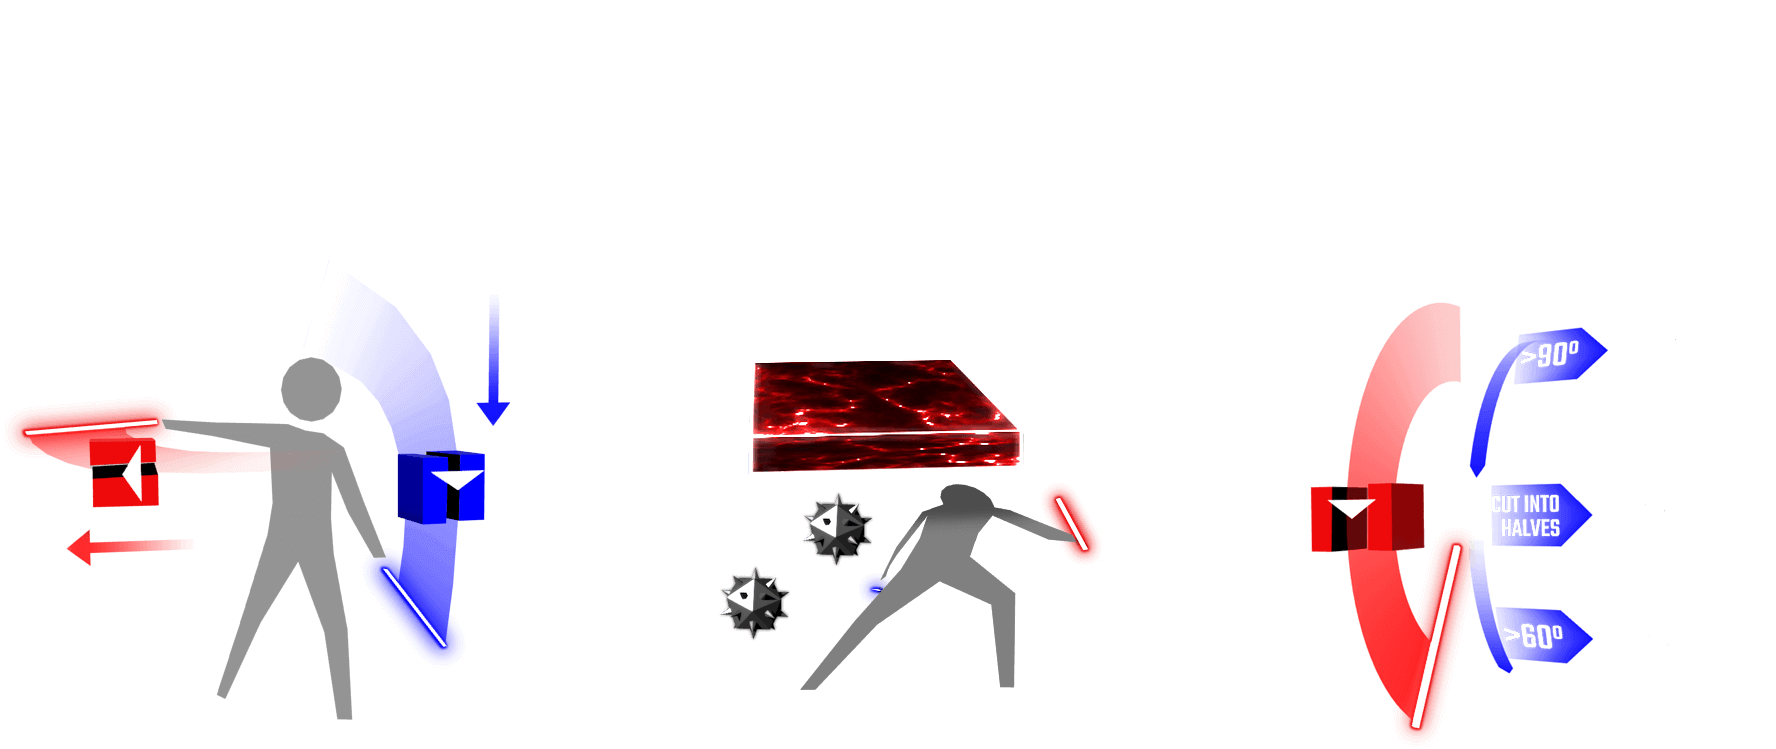
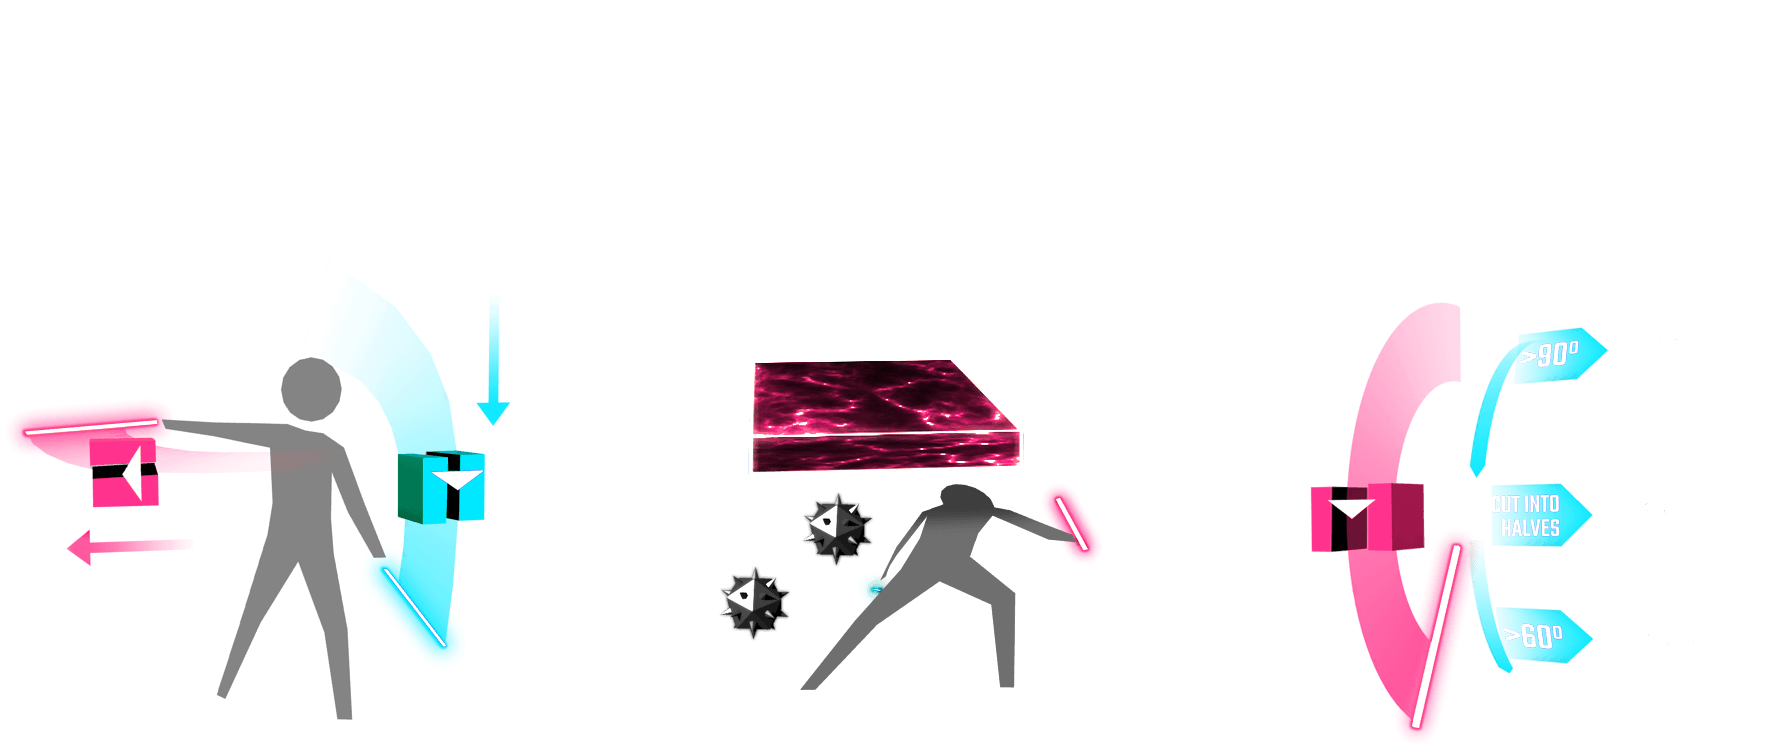
recoloring ui stuff

diff --git a/src/assets.html b/src/assets.html
@@ -76,7 +76,7 @@
 <img id="noiseTexture" src="assets/img/noise.png">
 <img id="sparkImg" src="assets/img/spark.png">
 <img id="spark2Img" src="assets/img/spark2.png">
-<img id="soundboxingImg" src="assets/img/soundboxing.png">
+<img id="soundboxingImg" src="assets/img/soundboxing.jpg">
 <img id="genresImg" src="assets/img/genres.png">
 <img id="tutorialImg" src="assets/img/tutorial.png">
 <img id="floorEnvImg" src="assets/img/floorenv.jpg">
@@ -181,6 +181,9 @@
   animation__skycoloroff="isRawProperty: true; property: systems.materials.stageNormal.uniforms.skyColor.value; type: color; to: {{ COLORS.SKY_OFF }}; dur: 500; easing: linear; startEvents: bgcoloroff"
   animation__skycolorblue="isRawProperty: true; property: systems.materials.stageNormal.uniforms.skyColor.value; type: color; to: {{ COLORS.SKY_BLUE }}; dur: 5; easing: linear; startEvents: bgcolorblue"
   animation__skycolorred="isRawProperty: true; property: systems.materials.stageNormal.uniforms.skyColor.value; type: color; to: {{ COLORS.SKY_RED }}; dur: 5; easing: linear; startEvents: bgcolorred"
+
+  animation__bgcolorgameover="isRawProperty: true; property: systems.materials.stageNormal.uniforms.backglowColor.value; type: color; to: {{ COLORS.BG_OFF }}; dur: 500; easing: linear; startEvents: bgcolorgameover"
+  animation__skycolorgameover="isRawProperty: true; property: systems.materials.stageNormal.uniforms.skyColor.value; type: color; to: {{ COLORS.SKY_BLUE }}; dur: 5; easing: linear; startEvents: bgcolorgameover"
   ></a-mixin>
 
 <a-mixin id="tunnelColorAnimation"

diff --git a/src/templates/gameMenu.html b/src/templates/gameMenu.html
@@ -13,8 +13,8 @@
 
 <!-- Titles. -->
 <a-entity id="inGameMenuTitles" position="0 1.7 -2.3">
-  <a-entity mixin="gameMenuButtonText" text="value: GAME OVER; color: #fff; width: 4" bind__visible="isGameOver"></a-entity>
-  <a-entity mixin="gameMenuButtonText" text="value: SONG CLEARED; color: #66d8fd; width: 4" bind__visible="isVictory" position="0 0.2 0"></a-entity>
+  <a-entity mixin="gameMenuButtonText" text="value: GAME OVER; color: {{ COLORS.UI_ACCENT2 }}; width: 4" bind__visible="isGameOver"></a-entity>
+  <a-entity mixin="gameMenuButtonText" text="value: SONG CLEARED; color: {{ COLORS.UI_ACCENT }}; width: 4" bind__visible="isVictory" position="0 0.2 0"></a-entity>
 </a-entity>
 
 <a-entity
@@ -67,9 +67,9 @@
 
     <a-entity id="gameMenuSongInfo">
       <a-entity class="gameMenuSongSubName" position="0 0.058 0"
-        mixin="font" text="wrapCount: 40; align: center; color: #FF185B" bind__text="value: menuSelectedChallenge.songSubName"></a-entity>
+        mixin="font" text="wrapCount: 40; align: center; color: {{ COLORS.UI_ACCENT }}" bind__text="value: menuSelectedChallenge.songSubName"></a-entity>
       <a-entity class="gameMenuSongName" position="0 -0.031 0"
-        mixin="font" text="align: center; color: #FF185B; wrapCount: 22; baseline: top; lineHeight: 36; width: 0.81"
+        mixin="font" text="align: center; color: {{ COLORS.UI_ACCENT }}; wrapCount: 22; baseline: top; lineHeight: 36; width: 0.81"
         bind__text="value: menuSelectedChallenge.songName"></a-entity>
     </a-entity>
   </a-entity>

diff --git a/src/components/gpu-preloader.js b/src/components/gpu-preloader.js
@@ -5,21 +5,35 @@ let i = 0;
  * three.js renderer by default will not upload textures from non-visible entities.
  */
 AFRAME.registerComponent('gpu-preloader', {
+  dependencies: ['materials'],
+
   play: function () {
     this.preloadMineEnvMaps();
 
     setTimeout(() => {
-      this.preloadBeamMap();
+      this.preloadAtlas();
+      this.preloadLogo();
+      //this.prelodBeamMap();
       this.preloadBeatEnvMap();
       this.preloadCutParticles();
       this.preloadKeyboard();
-      this.preloadMissMap();
+      //this.preloadMissMap();
       this.preloadPlayButton();
       this.preloadSearchPrevPage();
       //this.preloadWallMap();
-      this.preloadWrongMap();
+      //this.preloadWrongMap();
       this.preloadGenres();
     }, 1000);
+  },
+
+  preloadAtlas: function () {
+    const stage = document.querySelector('#stageObj');
+    this.preloadTexture(stage.getObject3D('mesh').children[0].material.uniforms.src.value);
+  },
+
+  preloadLogo: function () {
+    const logo = document.querySelector('#logoBody');
+    this.preloadTexture(logo.getObject3D('mesh').children[0].material.uniforms.src.value);
   },
 
   preloadBeamMap: function () {

diff --git a/src/templates/menu.html b/src/templates/menu.html
@@ -131,7 +131,8 @@
 
       <a-entity id="soundboxingLink"
         bind__visible="!menuSelectedChallenge.id && !isSearching && !genre"
-        position="0.95 -0.57 0.01">
+        position="0.9 -0.5 0.01">
+
         <a-entity id="soundboxingButton"
           link="href: https://webvr.soundboxing.co/; on: click"
           geometry="primitive:plane; width: 0.38; height: 0.19;"
@@ -146,7 +147,7 @@
             mixin="font"
             animation__show="property: components.text.material.uniforms.opacity.value; from: 0; to: 1; startEvents: show; dur: 100"
             animation__hide="property: components.text.material.uniforms.opacity.value; from: 1; to: 0; startEvents: hide; dur: 100"
-            text="value: If you liked Super Saber, you'll love Soundboxing! Play it now instantly.; opacity: 0; baseline: bottom; width: 0.7; wrapCount: 24; align: center"></a-entity>
+            text="value: If you liked Super Saber,\nyou'll love Soundboxing!\nPlay it now instantly.; letterSpacing: 2; opacity: 0; baseline: bottom; width: 0.7; wrapCount: 28; align: center; color:  #fa83d9;"></a-entity>
         </a-entity>
       </a-entity>
     </a-entity>

diff --git a/src/templates/stage.html b/src/templates/stage.html
@@ -72,7 +72,7 @@
     position="0 -19 5"></a-entity>
 
   <a-entity
-    id="stageobj"
+    id="stageObj"
     mixin="gameoverAnimation"
     obj-model="obj: #stageNormalObj"
     materials="name: stageNormal"></a-entity>
@@ -114,7 +114,7 @@
 
   <a-entity id="logo" bind__visible="menuActive || isVictory" position="0 6 -7.5" rotation="90 0 0">
     <a-entity id="logoGodraysObj" obj-model="obj: #logoGodraysObj" materials="name: logoadditive"></a-entity>
-    <a-entity id="logoObj" obj-model="obj: #logoObj" materials="name: logo"></a-entity>
+    <a-entity id="logoBody" obj-model="obj: #logoObj" materials="name: logo"></a-entity>
     <a-entity id="logoFrontU" obj-model="obj: #logofrontUObj" materials="name: logo" logoflicker="delay: 1200" bind__logoflicker="active: menuActive || isVictory"></a-entity>
     <a-entity id="logoGlowObj" obj-model="obj: #logoGlowObj" materials="name: logoadditive"></a-entity>
   </a-entity>

diff --git a/src/templates/leaderboard.html b/src/templates/leaderboard.html
@@ -33,7 +33,7 @@
     mixin="font"
     bind__text="value: leaderboardNames"
     bind__visible="!leaderboardQualified && !leaderboardEmpty"
-    text="baseline: center; width: 1.2; anchor: left; color: #00acfc; wrapCount: 28; lineHeight: 53;"
+    text="baseline: center; width: 1.2; anchor: left; color: {{ COLORS.UI_ACCENT }}; wrapCount: 28; lineHeight: 53;"
     position="-0.7 -0.16 0.001"></a-entity>
 
   <a-entity

diff --git a/src/components/gameover.js b/src/components/gameover.js
@@ -37,5 +37,6 @@ AFRAME.registerComponent('gameover', {
       this.gameOverEls[i].emit('gameover', null, false);
     }
     this.el.emit('textglowoff', null, false);
+    this.el.emit('bgcolorgameover', null, false);
   }
 });

diff --git a/src/constants/colors-brand.js b/src/constants/colors-brand.js
@@ -4,6 +4,7 @@ module.exports = {
   BLUE: '#08bfa2',
 
   UI_ACCENT: '#08bfa2',
+  UI_ACCENT2: '#f01978',
 
   SKY_OFF: '#297547',
   SKY_BLUE: '#840d42',

diff --git a/src/constants/colors.js b/src/constants/colors.js
@@ -4,6 +4,7 @@ module.exports = {
   BLUE: '#08bfa2',
 
   UI_ACCENT: '#08bfa2',
+  UI_ACCENT2: '#f01978',
 
   SKY_OFF: '#297547',
   SKY_BLUE: '#840d42',

diff --git a/src/constants/colors-orig.js b/src/constants/colors-orig.js
@@ -4,6 +4,7 @@ module.exports = {
   BLUE: '#00f',
 
   UI_ACCENT: '#067197',
+  UI_ACCENT2: '#f00',
 
   SKY_OFF: '#222',
   SKY_BLUE: '#007AB8',
